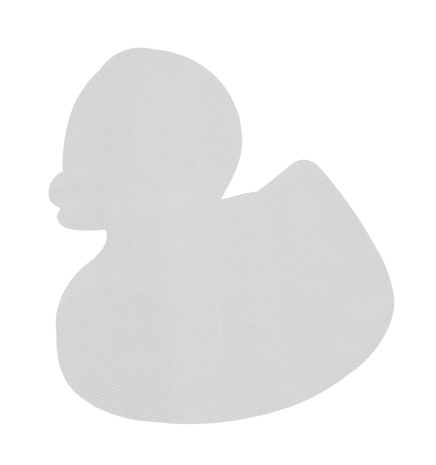
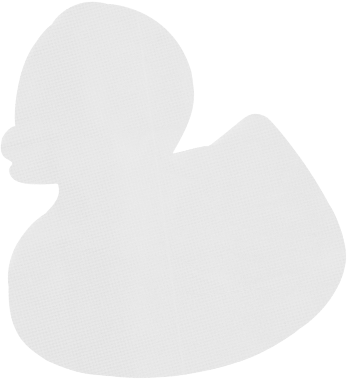
updated paths and styles, gave up on doing it manually

Changed region(s): [[0.0287, 0.3184, 1.0, 1.0], [0.0, 0.0, 0.5158, 0.4921], [0.4871, 0.2895, 0.5731, 0.4053]]

diff --git a/apps/web/src/components/DuckieSection/DuckieSection.tsx b/apps/web/src/components/DuckieSection/DuckieSection.tsx
@@ -1,7 +1,6 @@
-import vinyl from 'assets/images/cd.png';
-import duck from 'assets/images/duckie.png';
-import duckEffect from 'assets/images/duckie-mask.png';
+import duck from 'assets/images/full-duckie.png';
 import play from 'assets/images/play.svg';
+import vinyl from 'assets/images/vinyl.png';
 import vinylEffect from 'assets/images/vinyl-effect.png';
 
 import classes from './DuckieSection.module.scss';
@@ -14,7 +13,6 @@ export const DuckieSection = () => (
         <div className={classes.images}>
           <div className={classes.duckie}>
             <img src={duck} className={classes.duckImage} alt='duckie' />
-            <img src={duckEffect} alt='duckie' className={classes.maskImage} />
           </div>
           <div className={classes.vinyl}>
             <div className={classes.vinylWrapper}>
@@ -22,36 +20,31 @@ export const DuckieSection = () => (
                 <img className={classes.play} src={play} alt='' />
               </div>
               <img className={classes.vinylImage} src={vinyl} alt='vinyl' />
-              <img
-                className={classes.vinylEffectImage}
-                src={vinylEffect}
-                alt='vinyl-effect'
-              />
             </div>
           </div>
         </div>
       </div>
-      <div className={classes.column}>
-        <div className={classes.paragraph}>
-          DUMP Udruga mladih programera u proteklih četrnaest godina svojim
-          aktivnim predavanjima i radionicama sudjeluje u izgradnji i razvoju
-          lokalne IT zajednice. Konferencija DUMP Days činila se kao korak
-          naprijed kojim bismo produbili našu viziju povezivanja IT zajednice i
-          na jednom mjestu okupili veći broj studenata i firmi.
+    </div>
+    <div className={classes.column}>
+      <div className={classes.paragraph}>
+        DUMP Udruga mladih programera u proteklih četrnaest godina svojim
+        aktivnim predavanjima i radionicama sudjeluje u izgradnji i razvoju
+        lokalne IT zajednice. Konferencija DUMP Days činila se kao korak
+        naprijed kojim bismo produbili našu viziju povezivanja IT zajednice i na
+        jednom mjestu okupili veći broj studenata i firmi.
+      </div>
+      <div className={classes.stats}>
+        <div className={classes.stat}>
+          <span className={classes.number}>8272</span>
+          <span className={classes.label}>posjetitelja</span>
         </div>
-        <div className={classes.stats}>
-          <div className={classes.stat}>
-            <span className={classes.number}>8272</span>
-            <span className={classes.label}>posjetitelja</span>
-          </div>
-          <div className={classes.stat}>
-            <span className={classes.number}>87</span>
-            <span className={classes.label}>partnera</span>
-          </div>
-          <div className={classes.stat}>
-            <span className={classes.number}>105</span>
-            <span className={classes.label}>predavanja</span>
-          </div>
+        <div className={classes.stat}>
+          <span className={classes.number}>87</span>
+          <span className={classes.label}>partnera</span>
+        </div>
+        <div className={classes.stat}>
+          <span className={classes.number}>105</span>
+          <span className={classes.label}>predavanja</span>
         </div>
       </div>
     </div>

diff --git a/apps/web/src/components/DuckieSection/DuckieSection.module.scss b/apps/web/src/components/DuckieSection/DuckieSection.module.scss
@@ -41,28 +41,30 @@
         .duckie {
           position: relative;
           margin-top: vw-calc(20);
-          transform: rotate(-7.424deg);
           width: vw-calc(384);
           height: vw-calc(417);
 
           .duckImage {
-            width: 98%;
-            height: 98%;
+            width: 100%;
+            height: 100%;
             object-fit: cover;
           }
 
           .maskImage {
+            position: absolute;
+            background-blend-mode: difference, soft-light;
             width: 100%;
             height: 100%;
-            top: vw-calc(-10);
-            left: vw-calc(-10);
+            top: vw-calc(0);
+            left: vw-calc(0);
+            transform: rotate(7.424deg);
           }
         }
 
         .vinyl {
           position: absolute;
           bottom: 0;
-          right: 0;
+          left: vw-calc(165);
           width: vw-calc(294);
           height: vw-calc(294);
           display: flex;
@@ -79,10 +81,15 @@
           }
 
           .elipse {
+            position: relative;
             display: flex;
-            width: vw-calc(78);
-            height: vw-calc(78);
+            min-width: vw-calc(80);
+            min-height: vw-calc(80);
             border-radius: 50%;
+            background-color: #f3f3f0;
+            z-index: 4;
+            align-items: center;
+            justify-content: center;
 
             .play {
               width: vw-calc(36);
@@ -94,16 +101,8 @@
             width: vw-calc(294);
             height: vw-calc(294);
             align-self: center;
-          }
-
-          .vinylEffectImage {
-            width: 100%;
-            height: 100%;
-            background-blend-mode: difference, soft-light;
-            border-radius: 50%;
             position: absolute;
-            top: 0;
-            left: 0;
+            z-index: 1;
           }
         }
       }
@@ -117,6 +116,7 @@
     }
 
     .stats {
+      margin-top: vw-calc(120);
       display: flex;
       flex-direction: row;
       flex-wrap: wrap;

diff --git a/apps/web/vite.config.ts b/apps/web/vite.config.ts
@@ -4,6 +4,13 @@ import { defineConfig } from 'vite';
 // https://vitejs.dev/config/
 export default defineConfig({
   plugins: [react()],
+  resolve: {
+    alias: {
+      components: '/src/components',
+      assets: '/src/assets',
+      styles: '/src/styles',
+    },
+  },
   server: {
     port: 3004,
     proxy: {

diff --git a/apps/web/src/pages/LandingPage/LandingPage.tsx b/apps/web/src/pages/LandingPage/LandingPage.tsx
@@ -1,9 +1,12 @@
+import DuckieSection from 'components/DuckieSection';
+
 import Schedule from '../../components/Schedule';
 
 export const LandingPage: React.FC = () => {
   return (
     <>
       <Schedule />
+      <DuckieSection />
     </>
   );
 };

diff --git a/apps/web/src/components/DuckieSection/index.ts b/apps/web/src/components/DuckieSection/index.ts
@@ -1,0 +1,3 @@
+import { DuckieSection } from './DuckieSection';
+
+export default DuckieSection;
